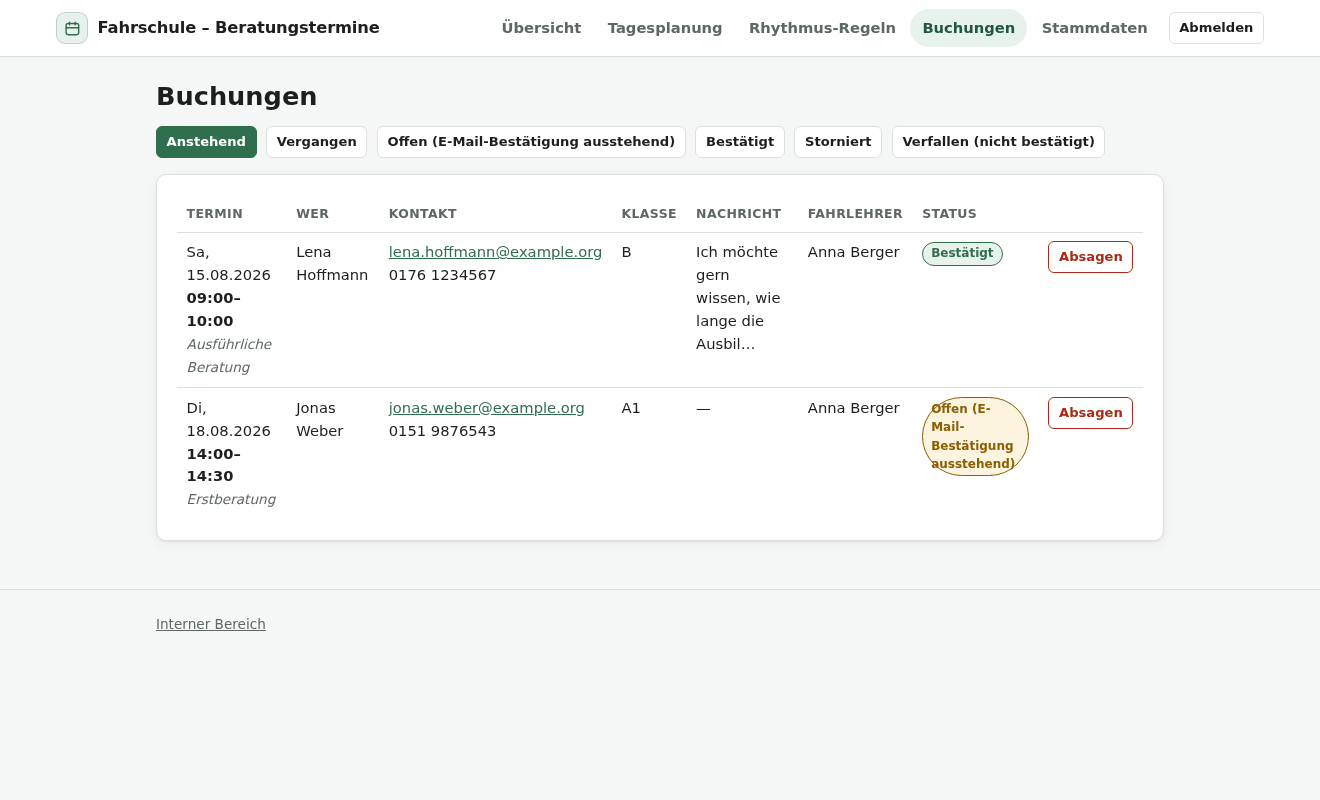
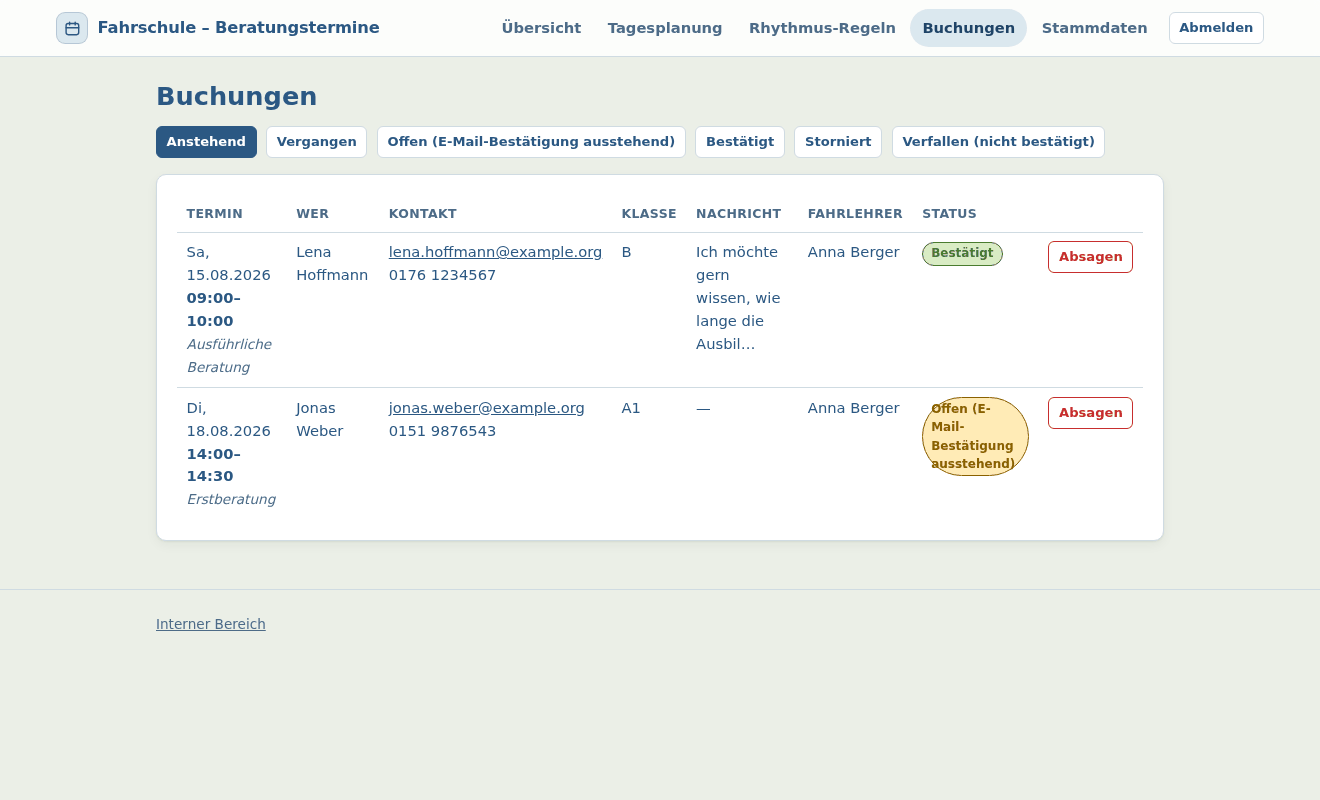
Farben der Fahrschulseite übernehmen
Die Buchung wird künftig von fahrschule-schaltwerk.de aus aufgerufen. Bisher
landete man dabei von einem warmen Papierweiß mit blaugrauer Schrift auf einer
kühlen grauen Seite mit sattem Grün – zwei Auftritte, die nichts miteinander
zu tun haben.

Übernommen sind der Seitengrund (#ebefe7), das Graublau für Schrift und Marke
(#2b5883), der rote Akzent (#c72e2e) und die Pastelltöne der Abschnitte. Die
öffentliche Seite greift zusätzlich die Schreibweise der Überschriften auf:
gesperrte Versalien über einem doppelten roten Strich. Der interne Bereich
bekommt das nicht – dort wird gearbeitet, nicht empfangen. Unterschieden wird
über eine Klasse am <body>, nicht über verstreute Ausnahmen.

Zwei Töne sind nachgeschärft, weil sie dort nur große Überschriften tragen,
hier aber Fließtext und Bedienelemente:

- Das hellere Graublau (#5b7995) kam auf dem Grund nur auf 3,9:1. Es ist auf
  #4d6b87 abgedunkelt und liegt damit bei 4,8:1.
- Das Taubenblau (#3673b9) bleibt ungenutzt: 4,2:1 reicht für Text nicht. Für
  Zeigen und Fokus steht das dunklere #1f4467 (8,1:1 auf der Markenfläche).

Grün bleibt Grün. Die Markenfarbe färbt Knöpfe, Links, den aktiven
Navigationspunkt und den gewählten Tag; freie Termine, Erfolgsmeldungen und
das Statuszeichen "Frei" behalten ihr Grün, nur auf die Pastelltöne der
Vorlage abgestimmt. Im Kalender wird nichts so schnell verstanden wie ein
grüner Tag – den durch die Markenfarbe zu ersetzen, hätte die Kernansicht
schlechter gemacht, nicht ähnlicher.
[…]

diff --git a/static/css/app.css b/static/css/app.css
@@ -1,20 +1,41 @@
 /* Schalti Termine – Basis-Stylesheet.
    Bewusst ohne Build-Schritt: eine Datei, reines CSS, überall lesbar. */
 
+/* Die Farben stammen von fahrschule-schaltwerk.de, damit der Sprung von dort
+   auf die Buchung nicht wie ein Seitenwechsel wirkt: das warme Papierweiß des
+   Seitenhintergrunds, das Graublau für Schrift und Marke, der rote Akzent und
+   die Pastelltöne der Abschnitte.
+
+   Zwei Töne sind bewusst nachgeschärft, weil sie dort nur große Überschriften
+   tragen, hier aber Fließtext und Bedienelemente:
+   - Das hellere Graublau (#5b7995) kam auf dem Grund nur auf 3,9:1 und ist
+     hier auf #4d6b87 abgedunkelt (4,8:1).
+   - Das Taubenblau (#3673b9) bleibt ungenutzt – 4,2:1 auf dem Grund reicht
+     für Text nicht. Für Zeigen und Fokus steht das dunklere #1f4467. */
 :root {
-  --gruen: #2f6f4e;
-  --gruen-hell: #e8f2ec;
-  --gruen-dunkel: #235640;
-  --rot: #b3261e;
+  /* Marke und Bedienung: Knöpfe, Links, aktiver Bereich, Auswahl */
+  --marke: #2b5883;
+  --marke-hell: #dbe8ef;
+  --marke-dunkel: #1f4467;
+  /* Schrift auf einer kräftig gefüllten Fläche – Marke oder Rot. */
+  --auf-akzent: #ffffff;
+
+  /* Bedeutung „frei“ und „hat geklappt“ – bleibt grün, weil im Kalender
+     nichts so schnell verstanden wird wie ein grüner Tag. */
+  --gruen: #4a7c2f;
+  --gruen-hell: #d9ecc4;
+  --gruen-dunkel: #3f6329;
+
+  --rot: #c72e2e;
   --rot-hell: #fdecea;
   --gelb: #8a6100;
-  --gelb-hell: #fdf4e0;
+  --gelb-hell: #ffebb6;
 
-  --text: #1c1f1d;
-  --text-leise: #5d6763;
-  --linie: #dbe2de;
+  --text: #2b5883;
+  --text-leise: #4d6b87;
+  --linie: #cfdbe2;
   --flaeche: #ffffff;
-  --grund: #f5f7f6;
+  --grund: #ebefe7;
 
   --radius: 10px;
   --radius-klein: 6px;
@@ -24,19 +45,27 @@
 
 @media (prefers-color-scheme: dark) {
   :root {
-    --gruen: #6fbc93;
-    --gruen-hell: #1e2f27;
-    --gruen-dunkel: #8ed3ac;
+    /* Die Fahrschulseite hat keine dunkle Fassung. Diese hier bleibt in
+       derselben Farbfamilie: blaugraue Flächen, der Akzent wird hell statt
+       dunkel – deshalb kippt --auf-akzent von Weiß auf Dunkel. */
+    --marke: #8fb9e3;
+    --marke-hell: #1d2c3a;
+    --marke-dunkel: #b9d5f0;
+    --auf-akzent: #10202e;
+
+    --gruen: #8fc46a;
+    --gruen-hell: #1e2a17;
+    --gruen-dunkel: #a9d68a;
     --rot: #f2b8b5;
     --rot-hell: #3a2220;
     --gelb: #e5c37c;
     --gelb-hell: #33291480;
 
-    --text: #e6ebe8;
-    --text-leise: #a3aeaa;
-    --linie: #333c38;
-    --flaeche: #1b201e;
-    --grund: #131715;
+    --text: #dde8ef;
+    --text-leise: #9db0be;
+    --linie: #2e3d48;
+    --flaeche: #1a242c;
+    --grund: #121a20;
   }
 }
 
@@ -52,14 +81,33 @@ body {
   -webkit-text-size-adjust: 100%;
 }
 
-a { color: var(--gruen); }
-a:hover { color: var(--gruen-dunkel); }
+a { color: var(--marke); }
+a:hover { color: var(--marke-dunkel); }
 
 h1, h2, h3 { line-height: 1.25; margin: 0 0 0.5em; font-weight: 650; }
 h1 { font-size: 1.6rem; }
 h2 { font-size: 1.2rem; }
 h3 { font-size: 1rem; }
 p { margin: 0 0 1em; }
+
+/* Die öffentliche Seite greift die Schreibweise der Fahrschulseite auf:
+   gesperrte Versalien über einem doppelten roten Strich. Der interne Bereich
+   bleibt sachlich – dort wird gearbeitet, nicht empfangen. Deshalb hängt es
+   an der Klasse des <body> und nicht an h1 allein. */
+.oeffentlich main h1 {
+  display: inline-block;
+  text-transform: uppercase;
+  letter-spacing: 0.08em;
+  color: var(--marke);
+  border-bottom: 4px double var(--rot);
+  padding-bottom: 0.2rem;
+  margin-bottom: 0.9rem;
+}
+@media (max-width: 520px) {
+  /* Gesperrte Versalien brauchen Platz; auf dem Handy geht sonst jede
+     Überschrift über drei Zeilen. */
+  .oeffentlich main h1 { font-size: 1.35rem; letter-spacing: 0.05em; }
+}
 
 .huelle { max-width: 1040px; margin: 0 auto; padding: 0 1rem; }
 .huelle-schmal { max-width: 620px; margin: 0 auto; padding: 0 1rem; }
@@ -100,8 +148,8 @@ p { margin: 0 0 1em; }
 .marke-zeichen {
   display: grid; place-items: center; flex: none;
   width: 2rem; height: 2rem; border-radius: 9px;
-  background: var(--gruen-hell); color: var(--gruen);
-  border: 1px solid color-mix(in srgb, var(--gruen) 22%, transparent);
+  background: var(--marke-hell); color: var(--marke);
+  border: 1px solid color-mix(in srgb, var(--marke) 22%, transparent);
 }
 .marke-zeichen svg { width: 1.05rem; height: 1.05rem; }
 /* Lange Fahrschulnamen dürfen den Schalter nicht aus der Zeile drängen. */
@@ -130,8 +178,8 @@ p { margin: 0 0 1em; }
   transition: background-color 120ms ease, color 120ms ease;
 }
 .menue-inhalt a:hover { background: var(--grund); color: var(--text); }
-.menue-inhalt a.aktiv { background: var(--gruen-hell); color: var(--gruen-dunkel); }
-.menue-inhalt a:focus-visible { outline: 2px solid var(--gruen); outline-offset: 2px; }
+.menue-inhalt a.aktiv { background: var(--marke-hell); color: var(--marke-dunkel); }
+.menue-inhalt a:focus-visible { outline: 2px solid var(--marke); outline-offset: 2px; }
 .menue-abmelden { margin-left: 0.4rem; }
 
 /* Der Schalter erscheint nur auf schmalen Geräten (siehe unten). */
@@ -226,10 +274,10 @@ p { margin: 0 0 1em; }
 }
 .tag--frei:hover { border-color: var(--gruen); }
 .tag--frei .punkt { background: var(--gruen); }
-.tag--gewaehlt { background: var(--gruen); color: #fff; border-color: var(--gruen); }
-.tag--gewaehlt .punkt { background: #fff; }
+.tag--gewaehlt { background: var(--marke); color: var(--auf-akzent); border-color: var(--marke); }
+.tag--gewaehlt .punkt { background: var(--auf-akzent); }
 .tag--fremd { opacity: 0.35; }
-.tag--heute { outline: 2px solid var(--gruen); outline-offset: -2px; }
+.tag--heute { outline: 2px solid var(--marke); outline-offset: -2px; }
 .tag--feiertag { color: var(--rot); }
 
 .legende {
@@ -241,7 +289,7 @@ p { margin: 0 0 1em; }
   width: 11px; height: 11px; border-radius: 3px; display: inline-block;
   background: var(--gruen-hell); border: 1px solid var(--gruen);
 }
-.legende i.frei-voll { background: var(--gruen); }
+.legende i.frei-voll { background: var(--marke); }
 .legende i.feiertag { background: var(--rot-hell); border-color: var(--rot); }
 
 /* --- Terminliste --- */
@@ -254,10 +302,10 @@ p { margin: 0 0 1em; }
   background: var(--flaeche); color: var(--text);
   font-variant-numeric: tabular-nums;
 }
-.slot:hover { border-color: var(--gruen); background: var(--gruen-hell); color: var(--gruen-dunkel); }
+.slot:hover { border-color: var(--marke); background: var(--marke-hell); color: var(--marke-dunkel); }
 .slot .uhrzeit { font-weight: 650; display: block; }
 .slot .meta { display: block; font-size: 0.76rem; color: var(--text-leise); }
-.slot:hover .meta { color: var(--gruen-dunkel); }
+.slot:hover .meta { color: var(--marke-dunkel); }
 
 /* --- Formulare --- */
 
@@ -274,7 +322,7 @@ input[type="time"], input[type="number"], input[type="password"], select, textar
   font: inherit;
 }
 input:focus, select:focus, textarea:focus {
-  outline: 2px solid var(--gruen); outline-offset: 1px; border-color: var(--gruen);
+  outline: 2px solid var(--marke); outline-offset: 1px; border-color: var(--marke);
 }
 textarea { resize: vertical; }
 
@@ -294,14 +342,14 @@ ul.wochentage input { width: auto; }
 .knopf {
   display: inline-flex; align-items: center; justify-content: center; gap: 0.4rem;
   padding: 0.55rem 1.1rem; border-radius: var(--radius-klein);
-  border: 1px solid var(--gruen); background: var(--gruen); color: #fff;
+  border: 1px solid var(--marke); background: var(--marke); color: var(--auf-akzent);
   font: inherit; font-weight: 600; text-decoration: none; cursor: pointer;
 }
-.knopf:hover { background: var(--gruen-dunkel); border-color: var(--gruen-dunkel); color: #fff; }
+.knopf:hover { background: var(--marke-dunkel); border-color: var(--marke-dunkel); color: var(--auf-akzent); }
 .knopf--leise { background: var(--flaeche); color: var(--text); border-color: var(--linie); }
 .knopf--leise:hover { background: var(--grund); color: var(--text); border-color: var(--text-leise); }
 .knopf--gefahr { background: var(--flaeche); color: var(--rot); border-color: var(--rot); }
-.knopf--gefahr:hover { background: var(--rot); color: #fff; }
+.knopf--gefahr:hover { background: var(--rot); color: var(--auf-akzent); }
 .knopf--klein { padding: 0.3rem 0.6rem; font-size: 0.82rem; }
 .knopf[disabled] { opacity: 0.5; cursor: not-allowed; }
 
@@ -397,7 +445,7 @@ table.liste tr:last-child td { border-bottom: none; }
 .kennzahl .beschriftung { font-size: 0.8rem; color: var(--text-leise); }
 
 .zusammenfassung {
-  background: var(--gruen-hell); border: 1px solid color-mix(in srgb, var(--gruen) 30%, transparent);
+  background: var(--marke-hell); border: 1px solid color-mix(in srgb, var(--marke) 30%, transparent);
   border-radius: var(--radius-klein); padding: 0.9rem 1rem; margin-bottom: 1.25rem;
 }
 .zusammenfassung dl { margin: 0; display: grid; grid-template-columns: auto 1fr; gap: 0.2rem 0.8rem; font-size: 0.92rem; }

diff --git a/termine/templates/base.html b/termine/templates/base.html
@@ -9,7 +9,7 @@
   <script src="{% static 'js/htmx.min.js' %}" defer></script>
   {% block kopf_extra %}{% endblock %}
 </head>
-<body>
+<body class="{% block koerper %}oeffentlich{% endblock %}">
   <header class="kopf">
     <div class="huelle kopf-inhalt">
       <a class="marke" href="{% url 'termine:start' %}">

diff --git a/termine/templates/staff/base_staff.html b/termine/templates/staff/base_staff.html
@@ -1,6 +1,9 @@
 {% extends "base.html" %}
 {% load navigation %}
 
+{# Der interne Bereich verzichtet auf die Empfangsgesten der Fahrschulseite. #}
+{% block koerper %}intern{% endblock %}
+
 {% block navigation %}
   {% comment %}
     Ein <details> statt eines Skripts: Auf schmalen Geräten klappt die

diff --git a/termine/tests/test_navigation.py b/termine/tests/test_navigation.py
@@ -75,3 +75,17 @@ class OhneRequest(SimpleTestCase):
         # Fehlerseiten werden ohne den üblichen Kontext gerendert. Der Tag darf
         # dort nichts markieren, aber erst recht nicht scheitern.
         self.assertEqual(aktiv({}, "dashboard"), "")
+
+
+class KoerperKlasse(TestCase):
+    """Öffentlich und intern sind optisch getrennt – das hängt an dieser Klasse."""
+
+    def test_oeffentliche_seite_ist_als_solche_ausgezeichnet(self):
+        antwort = self.client.get(reverse("termine:start"))
+        self.assertContains(antwort, '<body class="oeffentlich">')
+
+    def test_interner_bereich_verzichtet_auf_die_empfangsgesten(self):
+        chef = get_user_model().objects.create_superuser("chef2", password="geheim123")
+        self.client.force_login(chef)
+        antwort = self.client.get(reverse("termine:dashboard"))
+        self.assertContains(antwort, '<body class="intern">')

diff --git a/README.md b/README.md
@@ -261,6 +261,35 @@ nicht `403` – die App verrät damit nicht einmal, dass es den Termin gibt.
 htmx liegt als eine Datei unter `static/js/` – es gibt bewusst keinen
 Paketmanager fürs Frontend.
 
+### Farben
+
+Die Palette stammt von der Seite der Fahrschule, weil die Buchung von dort aus
+aufgerufen wird und der Sprung nicht wie ein Seitenwechsel wirken soll: das
+warme Papierweiß des Hintergrunds (`#ebefe7`), das Graublau für Schrift und
+Marke (`#2b5883`), der rote Akzent (`#c72e2e`) und die Pastelltöne der
+Abschnitte. Die öffentliche Seite greift zusätzlich die Schreibweise der
+Überschriften auf – gesperrte Versalien über einem doppelten roten Strich.
+Der interne Bereich bleibt sachlich; dort wird gearbeitet, nicht empfangen.
+
+Zwei Töne sind bewusst nachgeschärft, weil sie dort nur große Überschriften
+tragen, hier aber Fließtext und Bedienelemente:
+
+| Von der Fahrschulseite | Hier | Warum |
+| --- | --- | --- |
+| `#5b7995` | `#4d6b87` | 3,9:1 auf dem Hintergrund reicht für Fließtext nicht (jetzt 4,8:1) |
+| `#3673b9` | ungenutzt | 4,2:1 – für Text zu wenig; Zeigen und Fokus nutzen das dunklere `#1f4467` |
+
+**Grün bleibt Grün.** Die Markenfarbe färbt Knöpfe, Links, den aktiven
+Navigationspunkt und den gewählten Tag. Freie Termine, Erfolgsmeldungen und
+das Statuszeichen „Frei" behalten ihr Grün – im Kalender wird nichts so schnell
+verstanden wie ein grüner Tag. Es ist auf die Pastelltöne der Fahrschulseite
+abgestimmt, nicht mehr das alte Sattgrün.
+
+Alles hängt an Variablen in `static/css/app.css`; ein Wechsel der Palette sind
+zwölf Zeilen, hell und dunkel getrennt. Schrift auf gefüllten Flächen läuft
+über `--auf-akzent` statt über ein festes Weiß – in der dunklen Fassung ist der
+Akzent hell, dort wäre weiße Schrift unlesbar.
+
 ### Datum und Uhrzeit
 
 Überall Tag.Monat.Jahr mit führender Null und die 24-Stunden-Uhr. Die Vorlagen
@@ -515,7 +544,7 @@ sein. Wer unterwegs nachsehen will, wer morgen kommt, dreht das Gerät quer.
 python manage.py test termine
 ```
 
-202 Tests, 97 % der Zeilen abgedeckt. Der Schwerpunkt liegt bewusst dort, wo
+204 Tests, 97 % der Zeilen abgedeckt. Der Schwerpunkt liegt bewusst dort, wo
 Fehler unbemerkt bleiben würden:
 
 | Bereich | Was geprüft wird |
@@ -569,7 +598,7 @@ termine/
     einrichtung.py     Erkennt die noch nicht eingerichtete Installation
     zustand.py         Datenbank erreichbar? Laufen die Jobs?
   templatetags/    Einrichtungshinweis und aktiver Navigationspunkt
-  tests/           202 Tests, 97 % Zeilenabdeckung (siehe unten)
+  tests/           204 Tests, 97 % Zeilenabdeckung (siehe unten)
 static/            CSS und htmx
 docs/bilder/       Screenshots für diese README
 ```

diff --git a/CLAUDE.md b/CLAUDE.md
@@ -43,6 +43,17 @@ Rhythmus-Regeln Termine mehrere Wochen im Voraus aus.
 
 ### Oberfläche
 
+- **Farben von fahrschule-schaltwerk.de**: Grund `#ebefe7`, Marke/Schrift
+  `#2b5883`, Akzent `#c72e2e`, Pastelltöne. Die Buchung wird von dort verlinkt.
+- Markenfarbe = Knöpfe, Links, aktiver Punkt, gewählter Tag. **Grün bleibt die
+  Bedeutungsfarbe** für frei/erfolgreich – im Kalender nicht durch die Marke
+  ersetzen.
+- Schrift auf gefüllten Flächen über `--auf-akzent`, nie festes `#fff`: In der
+  dunklen Fassung ist der Akzent hell.
+- Nachgeschärft gegenüber der Vorlage: `#5b7995` → `#4d6b87` (Kontrast),
+  `#3673b9` ungenutzt (4,2:1 zu wenig für Text).
+- Öffentliche Seite: Überschriften als gesperrte Versalien mit doppeltem rotem
+  Strich (`body.oeffentlich`). Interner Bereich (`body.intern`) ohne das.
 - Kopfzeile klebt beim Scrollen, milchig über dem Inhalt; Navigationspunkte als
   Pillen mit eingefärbtem aktivem Bereich (`aria-current="page"`).
 - Unter 760 px klappt die Navigation hinter einen Schalter – als `<details>`,
@@ -128,7 +139,7 @@ coverage run manage.py test termine && coverage report
 
 - `main` trägt den stabilen Stand. Entwickelt wird auf einem eigenen Branch,
   der erst nach grüner Testsuite dorthin zurückfließt.
-- Stand: 202 Tests, 97 % Zeilenabdeckung. Neue Funktionen kommen mit Tests –
+- Stand: 204 Tests, 97 % Zeilenabdeckung. Neue Funktionen kommen mit Tests –
   der Schwerpunkt liegt dort, wo ein Fehler unbemerkt bliebe (Jobs, Kommandos,
   Ausfallpfade des Mailversands).
 - Commit-Nachrichten auf Deutsch, im Stil der bestehenden Historie: erst was
